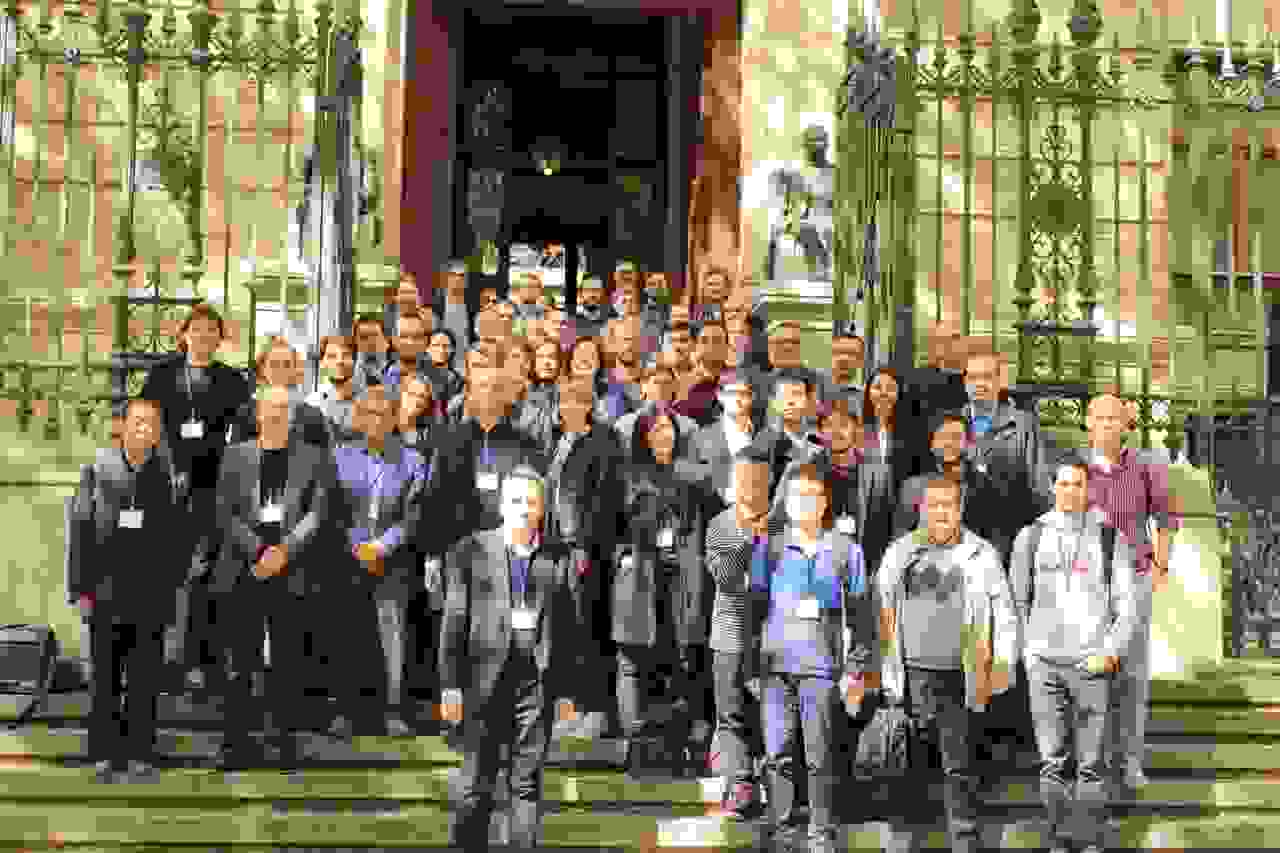
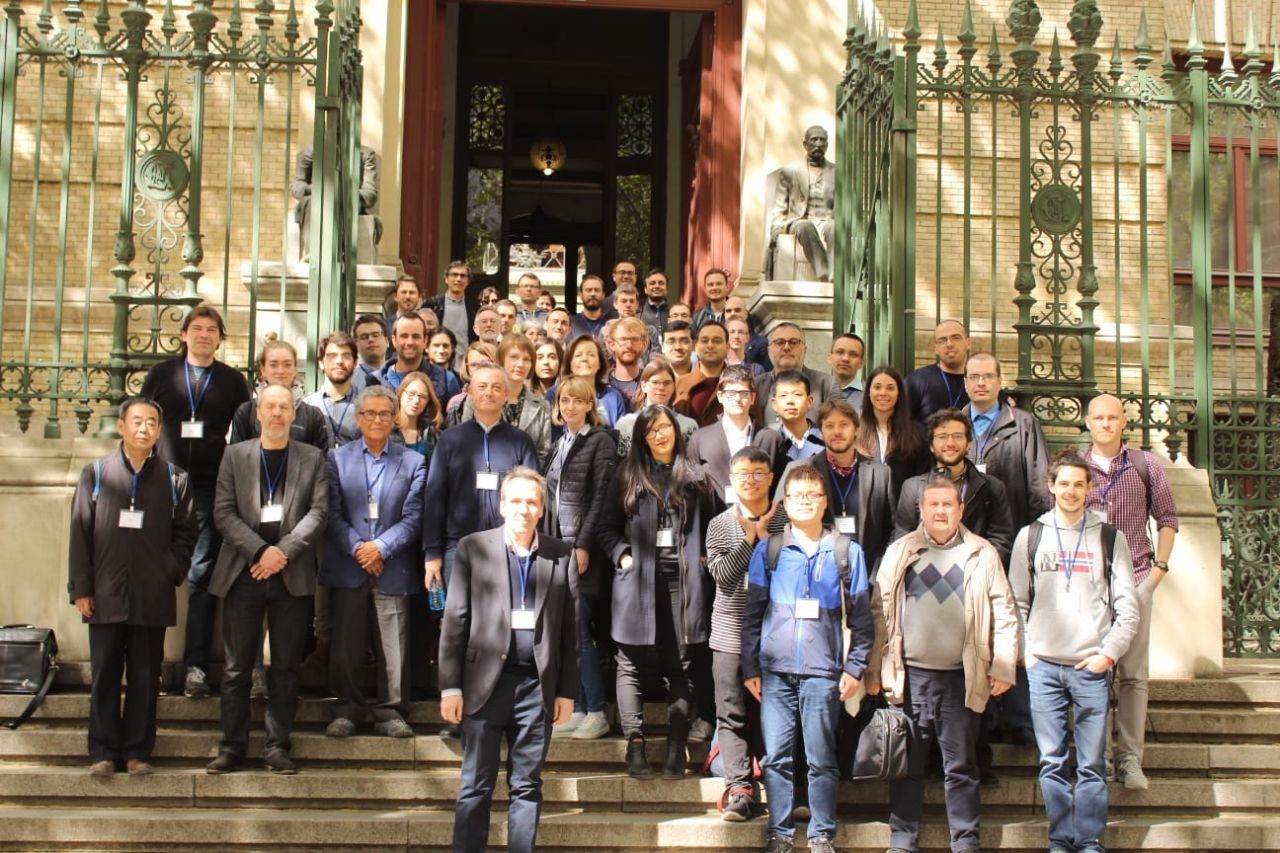
Mejoras en la nueva sección HONOM2019

diff --git a/boletin22seHONOM.html b/boletin22seHONOM.html
@@ -32,7 +32,7 @@ class="ecrm-1200">Universidad Polit</span><span
 class="ecrm-1200">é</span><span 
 class="ecrm-1200">cnica de Madrid.</span><br />
 _</p></div>
-<!--l. 713--><p class="noindent" >La séptima edición del congreso European Workshop on High Order Nonlinear Numerical
+<!--l. 713--><p class="noindent" style="text-align: justify;" >La séptima edición del congreso European Workshop on High Order Nonlinear Numerical
 Methods for Evolutionary PDEs: Theory and Applications (HONOM 2019) se celebró en la
 Escuela Técnica Superior de Ingenieros de Minas y Energía (ETSIME) de la Universidad
 Politécnica de Madrid, entre los días <span 
@@ -53,7 +53,7 @@ class="cmr-10">2015</span>), Burdeos (<span
 class="cmr-10">2013</span>) y Stuttgart
 (<span 
 class="cmr-10">2017</span>).
-</p><!--l. 715--><p class="indent" >   El Comité Organizador de HONOM está formado por los profesores Eleuterio Toro
+</p><!--l. 715--><p class="indent" style="text-align: justify;" >   El Comité Organizador de HONOM está formado por los profesores Eleuterio Toro
 (Universidad de Trento), Rémi Abgrall (Universidad de Zurich), Michael Dumbser
 (Universidad de Trento) y Claus-Dieter Munz (Universidad de Stuttgart), mientras que el
 Comité Organizador Local de la reciente edición ha estado constituido por los profesores de
@@ -64,7 +64,7 @@ web que se utilizó tanto para información sobre el congreso, como para realiza
 inscripción en el mismo, publicar los resúmenes de las comunicaciones y, en general, de
 interacción entre los organizadores y los participantes. La dirección de la página es:
 http://eventos.upm.es/go/honom2019.
-</p><!--l. 718--><p class="indent" >   Las contribuciones al congreso se estructuraron en conferencias plenarias y comunicaciones
+</p><!--l. 718--><p class="indent" style="text-align: justify;" >   Las contribuciones al congreso se estructuraron en conferencias plenarias y comunicaciones
 orales. La mayor parte de estas últimas se desarrolló en sesiones paralelas. Cada jornada se
 abría en sesión de mañana con una conferencia plenaria, en el Salón de Actos de la
                                                                           
@@ -77,7 +77,7 @@ las contribuciones orales tenían asignadas también media hora. Las salas donde
 desarrollaban las sesiones paralelas eran el Salón de Actos y el aula Fausto de Elhuyar. La
 sesión de tarde se abría también con una conferencia plenaria que, posteriormente, daba
 paso a las sesiones paralelas.
-</p><!--l. 720--><p class="indent" >   El número de comunicaciones orales presentadas fue de <span 
+</p><!--l. 720--><p class="indent" style="text-align: justify;" >   El número de comunicaciones orales presentadas fue de <span 
 class="cmr-10">53</span>. Tanto las comunicaciones como
 las conferencias invitadas fueron de un muy elevado nivel cientíﬁco. Es interesante destacar
 también que, además de profesores y cientíﬁcos de reconocido prestigio internacional, hubo
@@ -89,7 +89,7 @@ Mathematics and Computation (CAMC), de la editorial Springer, denominado ’High
 numerical methods for evolutionary PDEs’, cuyo editor jefe es Chi-Wang Shu y los editores
 invitados son Rémi Abgrall, Michael Dumbser, Claus-Dieter Munz, Eleuterio F. Toro, Jan
 Hesthaven y Arturo Hidalgo.
-</p><!--l. 722--><p class="indent" >   La inauguración del congreso tuvo lugar el <span 
+</p><!--l. 722--><p class="indent" style="text-align: justify;" >   La inauguración del congreso tuvo lugar el <span 
 class="cmr-10">1 </span>de abril, a las 9:30 horas en el Salón de
 Actos de la Escuela. La mesa presidencial estuvo formada por los profesores José Luis Parra,
 Eleuterio Toro, y Arturo Hidalgo. Fue un acto breve, en el que se dio la bienvenida a los
@@ -513,7 +513,7 @@ class="small-caps">.</span></span></p></div>
 
                                                                           
    </div><hr class="endfigure" />
-   <h4 class="subsectionHead"><span class="titlemark">4.1.   </span> <a 
+   <h4 class="subsectionHead"><span class="titlemark">1.   </span> <a 
  id="x7-130004.1"></a>Conferenciantes plenarios</h4>
 <!--l. 761--><p class="noindent" >El congreso contó con nueve conferenciantes plenarios: Jan Hesthaven (École Polytechnique
 Fédérale de Lausanne, Suiza), Raphael Loubère (Université de Bordeaux, Francia), Pep
@@ -577,14 +577,14 @@ class="ecti-1000">Dynamics and Lagrangian Hydrodynamics</span>. Viernes 5 de abr
 <!--l. 776--><p class="noindent" >
 </p><!--l. 777--><p class="noindent" ><img 
 src="./figuras/Honom/FotosInv1aa.jpg" alt="PIC"  
-width="300" height="250"  /> <img 
+width="350" height="250"  /> <img 
 src="./figuras/Honom/FotosInv1ab.jpg" alt="PIC"  
-width="170" height="250"  />                                                                  <br />
+width="200" height="250"  />                                                                  <br />
 <img 
 src="./figuras/Honom/FotosInv1ba.jpg" alt="PIC"  
-width="170" height="250"  /> <img 
+width="200" height="250"  /> <img 
 src="./figuras/Honom/FotosInv1bb.jpg" alt="PIC"  
-width="300" height="250"  />
+width="350" height="250"  />
  <a 
  id="x7-13001r14"></a>
 </p>
@@ -785,16 +785,16 @@ class="small-caps">.</span></span></p></div>
 <!--l. 788--><p class="noindent" >
 </p><!--l. 789--><p class="noindent" ><img 
 src="./figuras/Honom/FotosInv2aa.jpg" alt="PIC"  
-width="160" height="250"  /> <img 
+width="180" height="250"  /> <img 
 src="./figuras/Honom/FotosInv2ab.jpg" alt="PIC"  
-width="320" height="250"  />                                                                  <br />
+width="360" height="250"  />                                                                  <br />
 <img 
 src="./figuras/Honom/FotosInv2ba.jpg" alt="PIC"  
-width="160" height="250"  /> <img 
+width="180" height="250"  /> <img 
 src="./figuras/Honom/FotosInv2bb.jpg" alt="PIC"  
-width="160" height="250"  /> <img 
+width="180" height="250"  /> <img 
 src="./figuras/Honom/FotosInv2bc.jpg" alt="PIC"  
-width="160" height="250"  />
+width="180" height="250"  />
  <a 
  id="x7-13002r15"></a>
 </p>
@@ -987,7 +987,7 @@ class="small-caps">.</span></span></p></div>
 
                                                                           
    </div><hr class="endfigure" />
-   <h4 class="subsectionHead"><span class="titlemark">4.2.   </span> <a 
+   <h4 class="subsectionHead"><span class="titlemark">2.   </span> <a 
  id="x7-140004.2"></a>Contribuciones y sesiones paralelas</h4>
    <div class="wrapfig-r"><img 
 src="./figuras/Honom/Fausto.jpg" alt="PIC"  
@@ -1099,7 +1099,7 @@ class="small-caps">d</span><span
 class="small-caps">o</span><span 
 class="small-caps">r</span><span 
 class="small-caps">.</span></span></p></div>                                    </div>
-<!--l. 808--><p class="noindent" >Tanto en las sesiones plenarias como en las comunicaciones orales se trataron diversos temas
+<!--l. 808--><p class="noindent" style="text-align: justify;" >Tanto en las sesiones plenarias como en las comunicaciones orales se trataron diversos temas
 relacionados con la resolución numérica de problemas representados por leyes de
 conservación hiperbólicas como leyes de balance (es decir, leyes de conservación con
 términos fuente). La mayor parte de los trabajos presentados se basaron en esquemas
@@ -1282,12 +1282,12 @@ vinculadas a estudios teóricos de los métodos numéricos de interés en este c
 >
 <!--l. 818--><p class="noindent" >
 </p>
-<hr class="figure" /><div class="figure" 
+<hr class="figure" /><div class="center"  style="width:200;"
 ><img 
 src="./figuras/Honom/SalonActos.jpg" alt="PIC"  
-width="348" height="260"  /> <img 
+width="400" height="290"  /> <img 
 src="./figuras/Honom/SalonActos2.jpg" alt="PIC"  
-width="348" height="260"  />  <a 
+width="400" height="290"  />  <a 
  id="x7-14003r18"></a>
 <div class="center" 
 >
@@ -1387,12 +1387,12 @@ class="small-caps">.</span></span></p></div>
 >
 <!--l. 828--><p class="noindent" >
 </p>
-<hr class="figure" /><div class="figure" 
+<hr class="figure" /><div class="center"  style="width:200;"
 ><img 
 src="./figuras/Honom/GGassner.jpg" alt="PIC"  
-width="348" height="260"  /> <img 
+width="400" height="290"  /> <img 
 src="./figuras/Honom/MCastro.jpg" alt="PIC"  
-width="348" height="260"  />  <a 
+width="400" height="290"  />  <a 
  id="x7-14004r19"></a>
 <div class="center" 
 >
@@ -1515,12 +1515,12 @@ class="small-caps">.</span></span></p></div>
 >
 <!--l. 838--><p class="noindent" >
 </p>
-<hr class="figure" /><div class="figure" 
+<hr class="figure" /><div class="center"  style="width:200;"
 ><img 
 src="./figuras/Honom/EFToro.jpg" alt="PIC"  
-width="348" height="260"  /> <img 
+width="410" height="300"  /> <img 
 src="./figuras/Honom/MDumbser.jpg" alt="PIC"  
-width="348" height="260"  />  <a 
+width="410" height="300"  />  <a 
  id="x7-14005r20"></a>
 <div class="center" 
 >
@@ -1645,12 +1645,12 @@ class="small-caps">.</span></span></p></div>
 >
 <!--l. 848--><p class="noindent" >
 </p>
-<hr class="figure" /><div class="figure" 
+<hr class="figure" /><div class="center"  style="width:200;"
 ><img 
 src="./figuras/Honom/CPares.jpg" alt="PIC"  
-width="348" height="260"  /> <img 
+width="410" height="300"  /> <img 
 src="./figuras/Honom/APascau.jpg" alt="PIC"  
-width="348" height="260"  />  <a 
+width="410" height="300"  />  <a 
  id="x7-14006r21"></a>
 <div class="center" 
 >
@@ -1774,12 +1774,12 @@ class="small-caps">.</span></span></p></div>
 >
 <!--l. 858--><p class="noindent" >
 </p>
-<hr class="figure" /><div class="figure" 
+<hr class="figure" /><div class="center"  style="width:200;"
 ><img 
 src="./figuras/Honom/PBacigaluppi.jpg" alt="PIC"  
-width="348" height="260"  /> <img 
+width="410" height="300"  /> <img 
 src="./figuras/Honom/GBertaglia.jpg" alt="PIC"  
-width="348" height="260"  />  <a 
+width="410" height="300"  />  <a 
  id="x7-14007r22"></a>
 <div class="center" 
 >
@@ -1904,12 +1904,12 @@ class="small-caps">.</span></span></p></div>
 >
 <!--l. 868--><p class="noindent" >
 </p>
-<hr class="figure" /><div class="figure" 
+<hr class="figure" /><div class="center"  style="width:200;"
 ><img 
 src="./figuras/Honom/Laura_Saavedra.jpg" alt="PIC"  
-width="348" height="260"  /> <img 
+width="410" height="300"  /> <img 
 src="./figuras/Honom/Maria_Han.jpg" alt="PIC"  
-width="348" height="260"  />  <a 
+width="410" height="300"  />  <a 
  id="x7-14008r23"></a>
 <div class="center" 
 >
@@ -1999,23 +1999,20 @@ class="small-caps">r</span><span
 class="small-caps">.</span></span></p></div>
 </div><hr class="endfigure" />
 </div>
-<!--l. 878--><p class="noindent" >Al ﬁnal de cada día tenía lugar una discusión en grupo donde se debatía con todos los
+<!--l. 878--><p class="noindent" style="text-align: justify;" >Al ﬁnal de cada día tenía lugar una discusión en grupo donde se debatía con todos los
 conferenciantes en la jornada sobre los temas tratados en la misma. En un ambiente tranquilo y
 relajado se desarrollaba una discusión entre los conferenciantes y los participantes aclarando
 cuestiones o analizando posibles alternativas a los problemas planteados y los métodos
 numéricos aplicados.
 </p>
-   <hr class="figure" /><div class="figure" 
->
-                                                                          
+   <hr class="figure" /><div class="center"  style="width:200;"
+> 
 
                                                                           
-                                                                          
-
                                                                           
 <!--l. 893--><p class="noindent" > <img 
 src="./figuras/Honom/Mina.jpg" alt="PIC"  
-width="114" height="85"  />
+width="400"   />
  <a 
  id="x7-14009r24"></a>
 </p>
@@ -2086,9 +2083,9 @@ class="small-caps">.</span></span></p></div>
 
                                                                           
    </div><hr class="endfigure" />
-   <h4 class="subsectionHead"><span class="titlemark">4.3.   </span> <a 
+   <h4 class="subsectionHead"><span class="titlemark">3.   </span> <a 
  id="x7-150004.3"></a>Actividades sociales</h4>
-<!--l. 900--><p class="noindent" >El lunes 1 de abril tuvo lugar recepción en el Patio de Columnas de la ETSI de Minas y
+<!--l. 900--><p class="noindent" style="text-align: justify;" >El lunes 1 de abril tuvo lugar recepción en el Patio de Columnas de la ETSI de Minas y
 Energía donde se ofreció un cóctel de bienvenida a todos los participantes en el congreso. El
 siguiente día, martes 2 de abril, se organizó una visita guiada a la mina experimental
 Marcelo Jorissen y al museo histórico-minero. La mina se encuentra situada en el recinto de la
@@ -2111,10 +2108,10 @@ antes de la cena, se tomó la foto de grupo en la puerta principal de la Escuela
 >
 <!--l. 902--><p class="noindent" >
 </p>
-<hr class="figure" /><div class="figure" 
+<hr class="figure" /><div class="center" 
 ><img 
 src="./figuras/Honom/Recepcion.jpg" alt="PIC"  
-width="464" height="347"  /><a 
+width="360"  /><a 
  id="x7-15001r25"></a>
 <div class="center" 
 >
@@ -2193,7 +2190,7 @@ class="small-caps">r</span><span
 class="small-caps">.</span></span></p></div>
 </div><hr class="endfigure" />
 </div>
-<hr class="figure" /><div class="figure" 
+<hr class="figure" /><div class="center" 
 > <img 
 src="./figuras/Honom/Group_Photo.jpg" alt="PIC"  
 width="386" height="257"  />  <a 
@@ -2250,9 +2247,9 @@ class="small-caps">.</span></span></p></div>
                                                                           
 <!--l. 937--><p class="noindent" >
 </p>
-   <h4 class="subsectionHead"><span class="titlemark">4.4.   </span> <a 
+   <h4 class="subsectionHead"><span class="titlemark">4.   </span> <a 
  id="x7-160004.4"></a>Clausura del congreso</h4>
-<!--l. 938--><p class="noindent" >La clausura del congreso tuvo lugar después de la última charla en la que el presidente del
+<!--l. 938--><p class="noindent" style="text-align: justify;" >La clausura del congreso tuvo lugar después de la última charla en la que el presidente del
 Comité Organizador Local, Arturo Hidalgo, agradeció al Comité Organizador la
 oportuidad de celebrar esta nueva edición de HONOM en Madrid, así como a la
 Dirección de la Escuela Técnica Superior de Ingenieros de Minas y Energía de la
